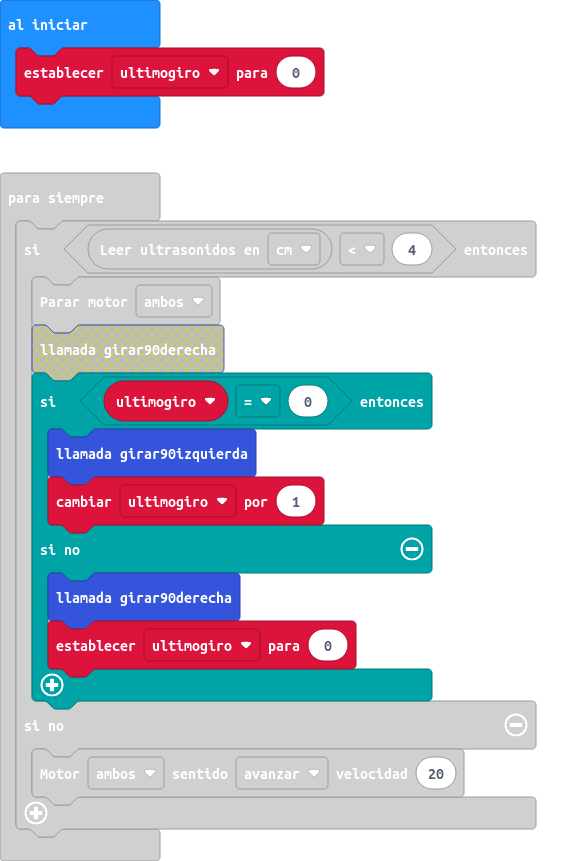
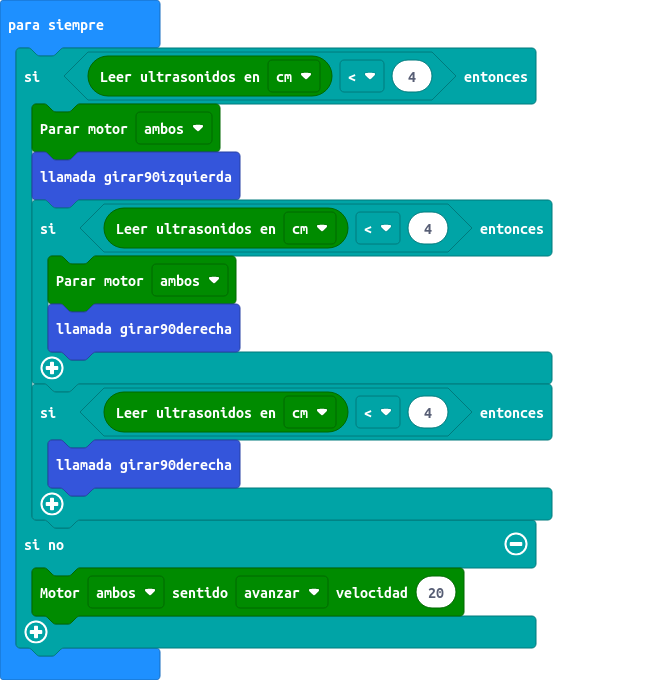
holi

diff --git a/main.ts b/main.ts
@@ -16,14 +16,18 @@ function girar90izquierda () {
 }
 let ultimogiro = 0
 basic.forever(function () {
+	
+})
+basic.forever(function () {
     if (maqueen.Ultrasonic(PingUnit.Centimeters) < 4) {
         maqueen.motorStop(maqueen.Motors.All)
-        if (ultimogiro == 0) {
-            girar90izquierda()
-            ultimogiro += 1
-        } else {
+        girar90izquierda()
+        if (maqueen.Ultrasonic(PingUnit.Centimeters) < 4) {
+            maqueen.motorStop(maqueen.Motors.All)
             girar90derecha()
-            ultimogiro = 0
+        }
+        if (maqueen.Ultrasonic(PingUnit.Centimeters) < 4) {
+            girar90derecha()
         }
     } else {
         maqueen.motorRun(maqueen.Motors.All, maqueen.Dir.CW, 20)
